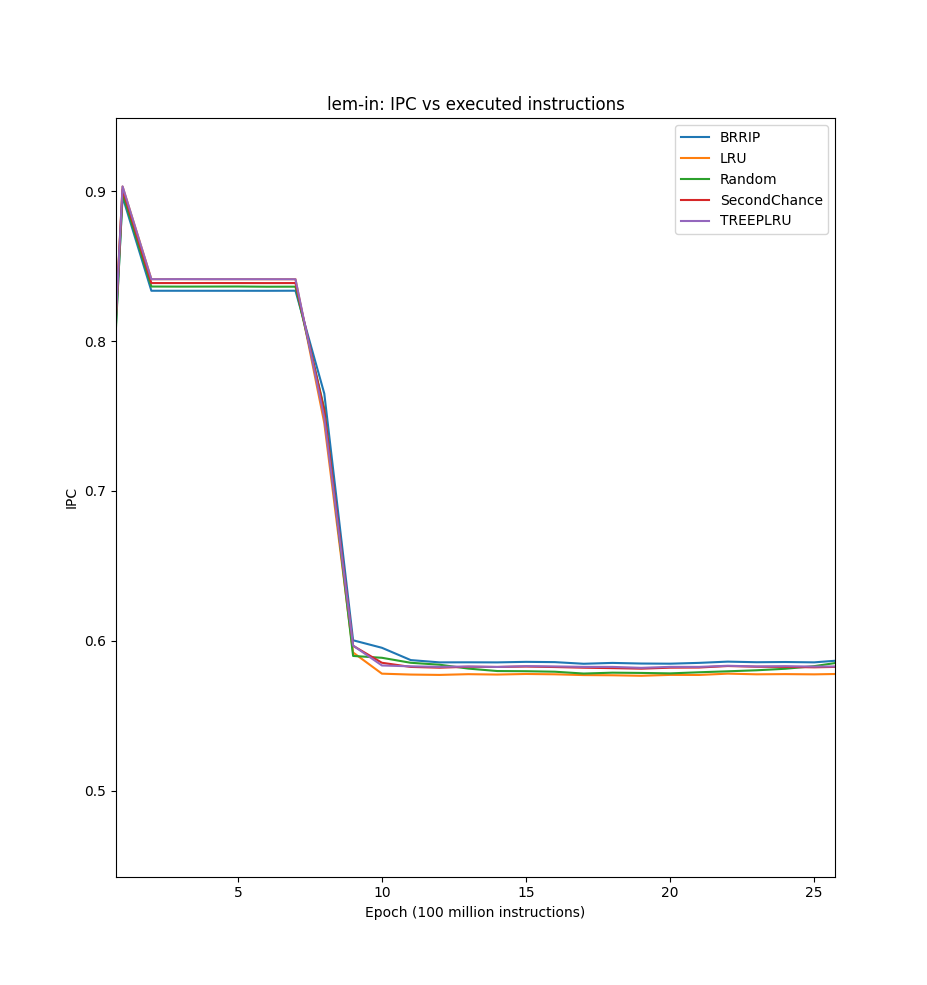
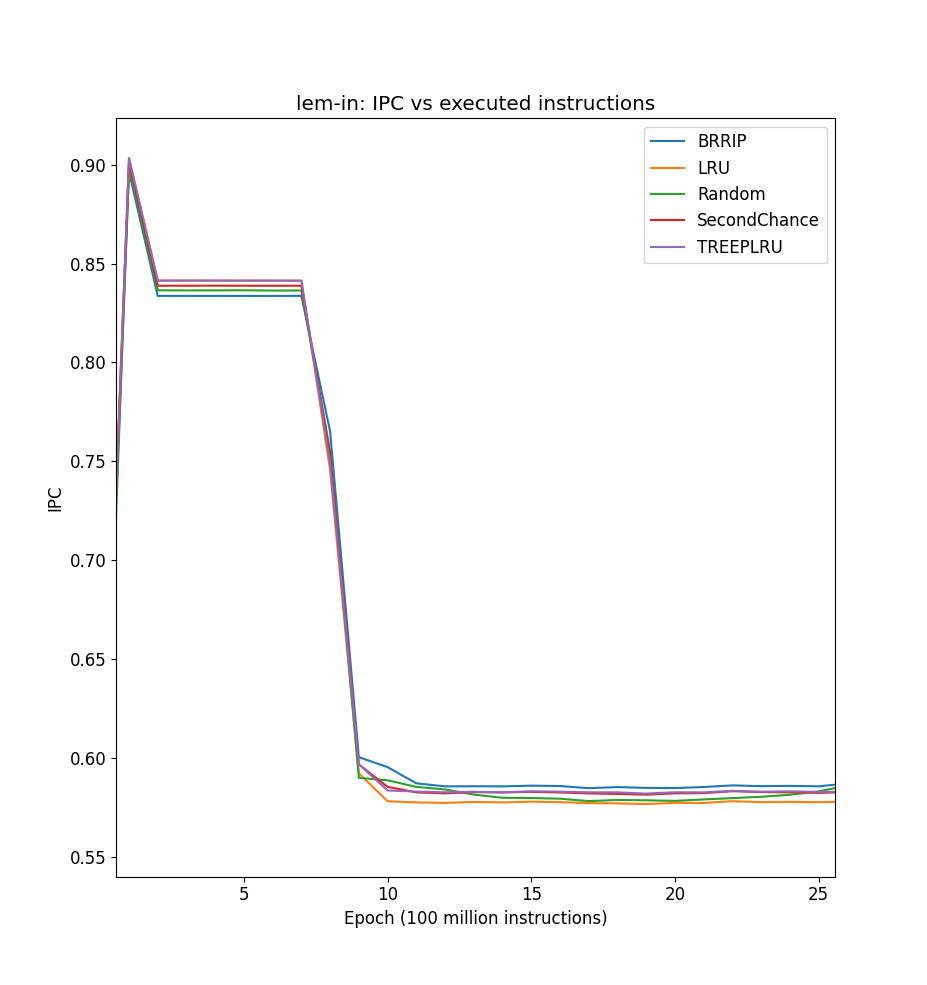
Add graphs

diff --git a/python/vis.py b/python/vis.py
@@ -1,6 +1,12 @@
 import matplotlib.pyplot as plt
 import os
 
+font = {'family' : 'normal',
+	'weight' : 'normal',
+	'size' : 12}
+
+plt.rc('font', **font)
+
 class dataPoint:
 	epoch = None
 	m_demand_misses = None
@@ -99,6 +105,34 @@ def inst_epoch_missrate_graph(dict, bench, xLabel):
 	plt.legend()
 	plt.show()
 
+def inst_epoch_mpki_graph(dict, bench, xLabel):
+	fig, ax = plt.subplots()
+	for key in sorted(dict.keys()):
+		print(key)
+		x = []
+		tmpy = []
+		y = []
+		acc = []
+		tmpAcc = []
+		for dp in dict[key]:
+			x.append(dp.epoch)
+			tmpy.append(dp.m_demand_misses)
+			y.append((dp.m_demand_misses))
+			tmpAcc.append(dp.m_demand_accesses)
+			acc.append(dp.m_demand_accesses)
+
+		y[0] = (y[0]/acc[0])*100
+		for i in x[1:]:
+			y[i] = (tmpy[i] - tmpy[i-1])
+			acc[i] = (tmpAcc[i] - tmpAcc[i-1])
+			y[i] = (y[i]*1.0/acc[i])*100
+		ax.plot(x,y, label=key)
+
+	plt.title(bench + ": Miss rate (%) per executed epoch")
+	plt.xlabel(xLabel)
+	plt.ylabel("Miss Rate %")
+	plt.legend()
+	plt.show()
 
 lem_dict = {}
 lem_dir = "./data/lem-in/"
@@ -106,13 +140,14 @@ lem_dir = "./data/lem-in/"
 extractData(lem_dict,lem_dir)
 #inst_total_miss_graph(lem_dict, "lem-in", "Epoch (100 million instructions)")
 #inst_epoch_missrate_graph(lem_dict, "lem-in", "Epoch (100 million instructions)")
-inst_epoch_ipc(lem_dict, "lem-in", "Epoch (100 million instructions)")
+#inst_epoch_ipc(lem_dict, "lem-in", "Epoch (100 million instructions)")
 
 fait_dict = {}
 fait_dir = "./data/fait/"
 
 extractData(fait_dict,fait_dir)
-#inst_total_miss_graph(fait_dict, "fait-maison-spmv", "Epoch (1 million instructions)")
-#inst_epoch_missrate_graph(fait_dict, "fait-maison-spmv", "Epoch (1 million instructions)")
+inst_total_miss_graph(fait_dict, "fait-maison-spmv", "Epoch (1 million instructions)")
+inst_epoch_missrate_graph(fait_dict, "fait-maison-spmv", "Epoch (1 million instructions)")
+inst_epoch_ipc(fait_dict, "fait-maison-spmv", "Epoch (1 million instructions)")
 	#		print(line)
 #p1 = ax.scatter()
